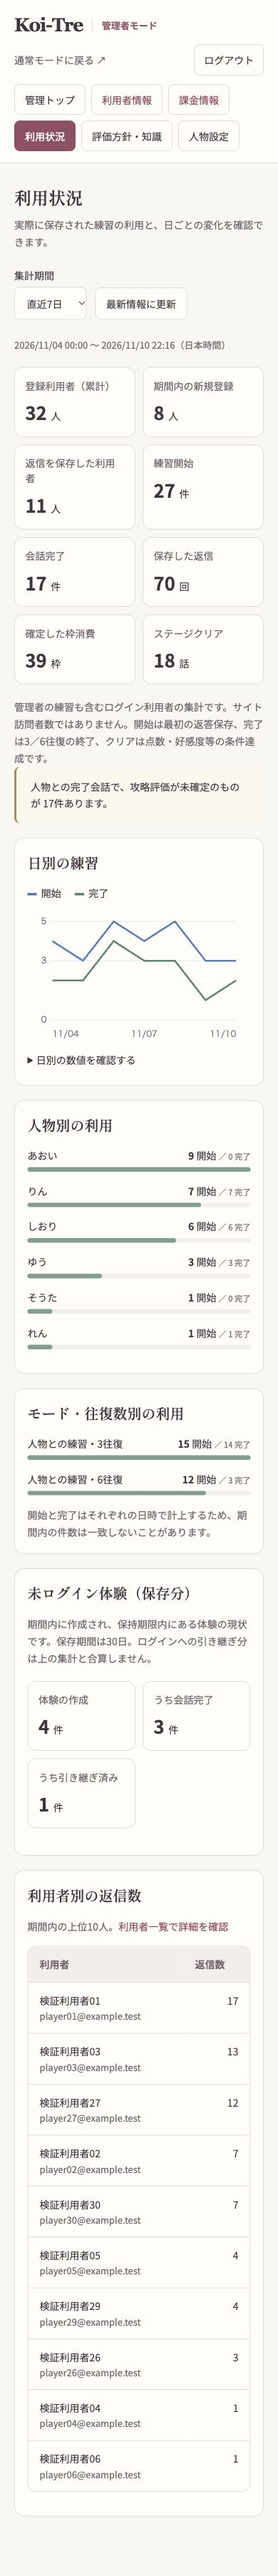
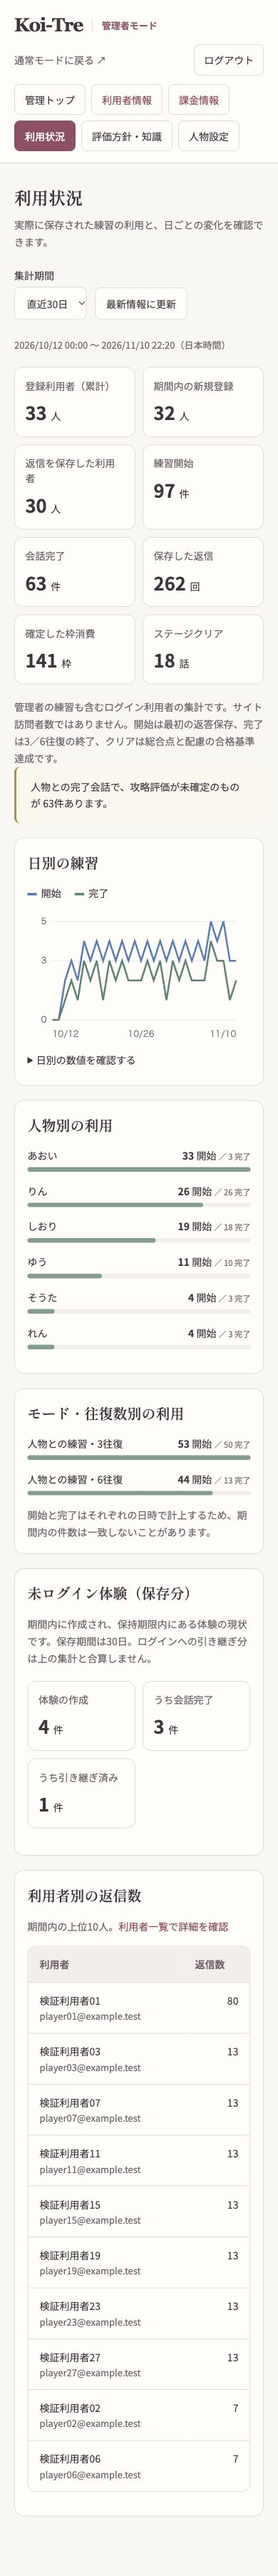
fix: 管理集計のクリア条件の説明を正確にする

diff --git a/src/routes/admin/usage/+page.svelte b/src/routes/admin/usage/+page.svelte
@@ -76,7 +76,7 @@
           </div>{/each}
       </dl>
       <p class="ops-muted">
-        管理者の練習も含むログイン利用者の集計です。サイト訪問者数ではありません。開始は最初の返答保存、完了は3／6往復の終了、クリアは点数・好感度等の条件達成です。
+        管理者の練習も含むログイン利用者の集計です。サイト訪問者数ではありません。開始は最初の返答保存、完了は3／6往復の終了、クリアは総合点と配慮の合格基準達成です。
       </p>
       {#if view.totals.pendingEvaluations}<p class="ops-notice">
           人物との完了会話で、攻略評価が未確定のものが {view.totals.pendingEvaluations}件あります。

diff --git a/docs/admin-operations-plan.md b/docs/admin-operations-plan.md
@@ -12,7 +12,7 @@
 
 既存テーブルから読み取り、migration・新しい依存関係・Stripeへの照会を追加しない。残枠は書き込みを行わない既存 `readCreditState` と同じ計算を使う。好感度・クリア状態は保存済みの集計を読み取り、管理画面の閲覧で再採点・精算・付与・消費を起こさない。
 
-期間は日本時間の当日を含む7/30/90日、終端は集計時刻未満。日別の開始は `charged_at`、完了は `completed_at`、返信は保存済み `practice_turns.created_at` に計上する。画面を開いただけの下書きを開始件数に含めない。好感度や合格点を満たすステージクリアは会話完了と別に集計する。
+期間は日本時間の当日を含む7/30/90日、終端は集計時刻未満。日別の開始は `charged_at`、完了は `completed_at`、返信は保存済み `practice_turns.created_at` に計上する。画面を開いただけの下書きを開始件数に含めない。総合点と配慮の合格基準を満たすステージクリアは会話完了と別に集計する。好感度は次話の解放条件であり、クリア件数へ混ぜない。
 
 登録利用者・返信した利用者・未ログイン体験は別の数値とし、訪問者数とは呼ばない。未ログイン体験は30日の保持・削除があるため保存分と表示し、ログインへの引き継ぎ分と合算しない。旧Dify形式の操作は利用者詳細で別項目にする。期間を変えても現在の契約人数は現在値のままであることを表示する。
 
